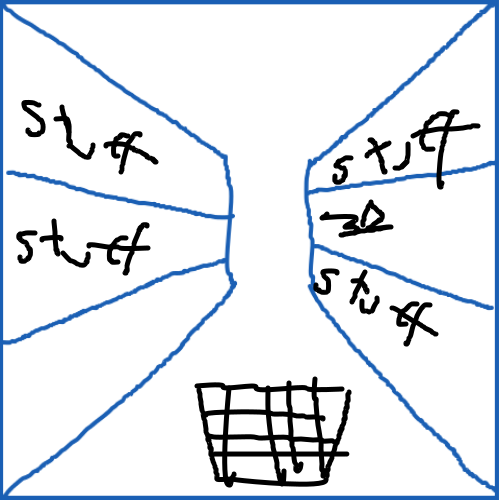
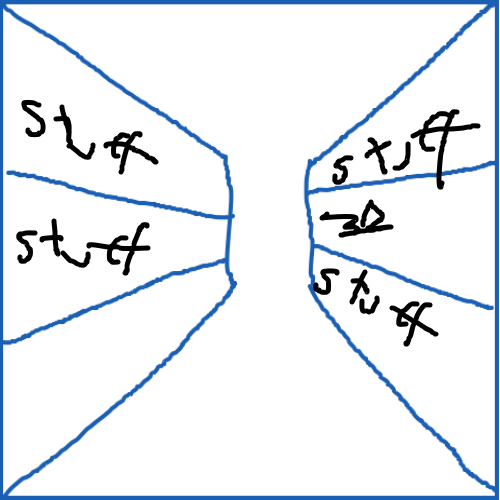
made basket a item obj to fix canvas resizing

Changed region(s): [[0.39, 0.75, 0.72, 0.99]]

diff --git a/exercises/project2/js/script.js b/exercises/project2/js/script.js
@@ -19,6 +19,7 @@ let s1;
 
 let felt;
 let pins;
+let basket;
 let placeSound;
 
 class Item {
@@ -51,6 +52,13 @@ function setup() {
     height - height / 3 - 25, //y
     loadImage("assets/images/pins.png") //img
   );
+  
+  basket = new Item(
+    width/2 - 75, //x
+    height - height/8 - 60, //y
+    loadImage("assets/images/basket.png") //img
+  )
+
 }
 
 function heightCheck() {
@@ -103,8 +111,10 @@ function title() {
 function scene1() {
   background(s1);
 
+  image(basket.img, basket.x, basket.y); //basket on bottom shelf
   image(felt.img, felt.x, felt.y); //felt on right shelf
   image(pins.img, pins.x, pins.y); //pins on left shelf
+  
 
   if (mouseIsPressed) {
     if (
@@ -135,20 +145,20 @@ function scene1() {
 
   if (
     //if felt is within the basket area, dissapear
-    felt.x > 201 &&
-    felt.x < 355 &&
-    felt.y > 391 &&
-    felt.y < 490
+    felt.x > basket.x &&
+    felt.x < basket.x + basket.img.width &&
+    felt.y > basket.y &&
+    felt.y < basket.y + basket.img.height
     //or if pins are within the basket area, dissapear
   ) {
     placeSound.play();
     felt.x = -100;
     felt.y = -100;
   }else if(
-    pins.x > 201 &&
-    pins.x < 355 &&
-    pins.y > 391 &&
-    pins.y < 490
+    pins.x > basket.x &&
+    pins.x < basket.x + basket.img.width &&
+    pins.y > basket.y &&
+    pins.y < basket.y + basket.img.height
   ){
     placeSound.play();
     pins.x = -100;
